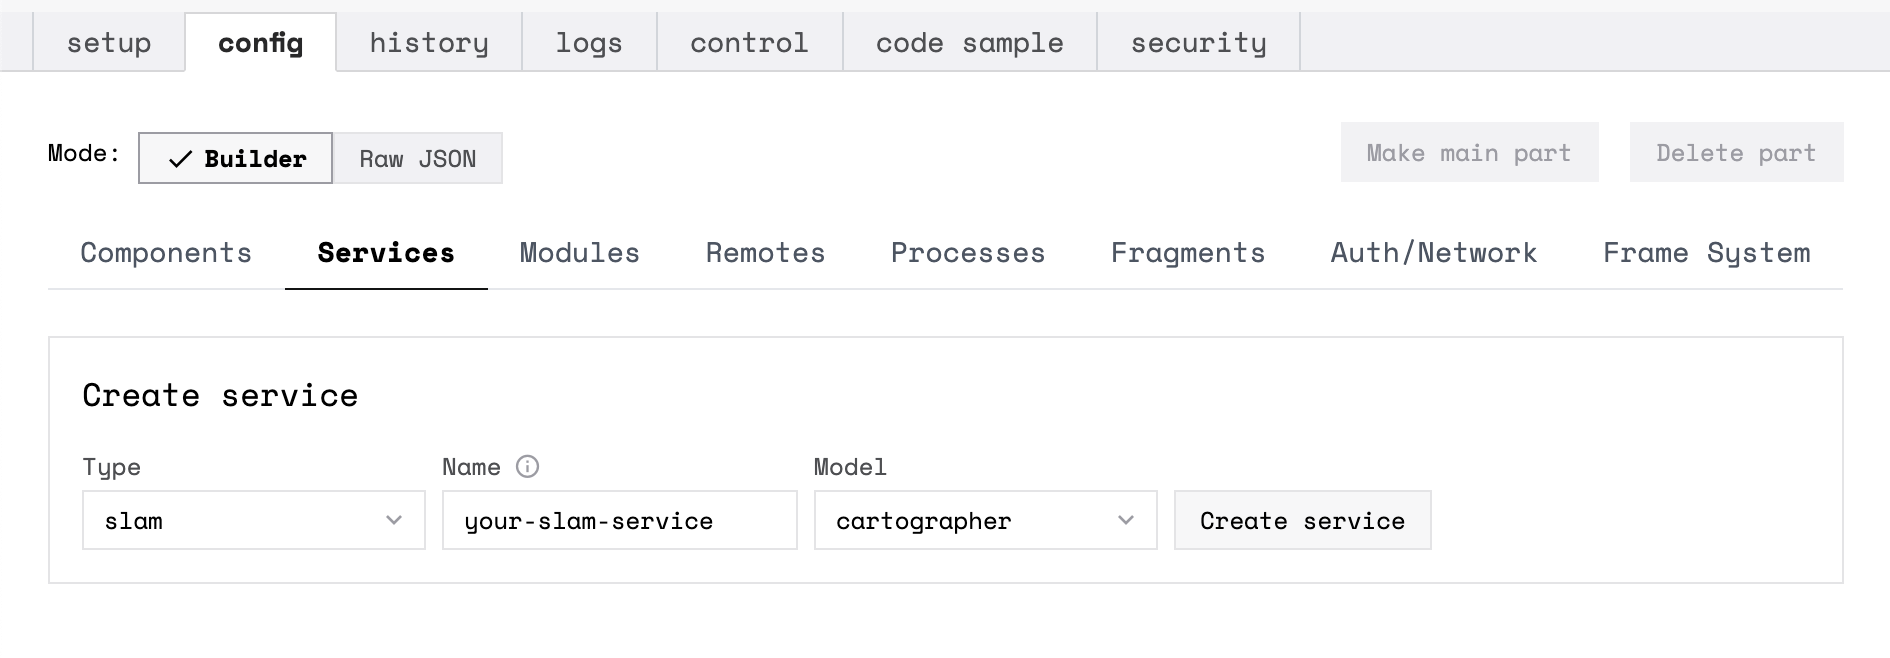
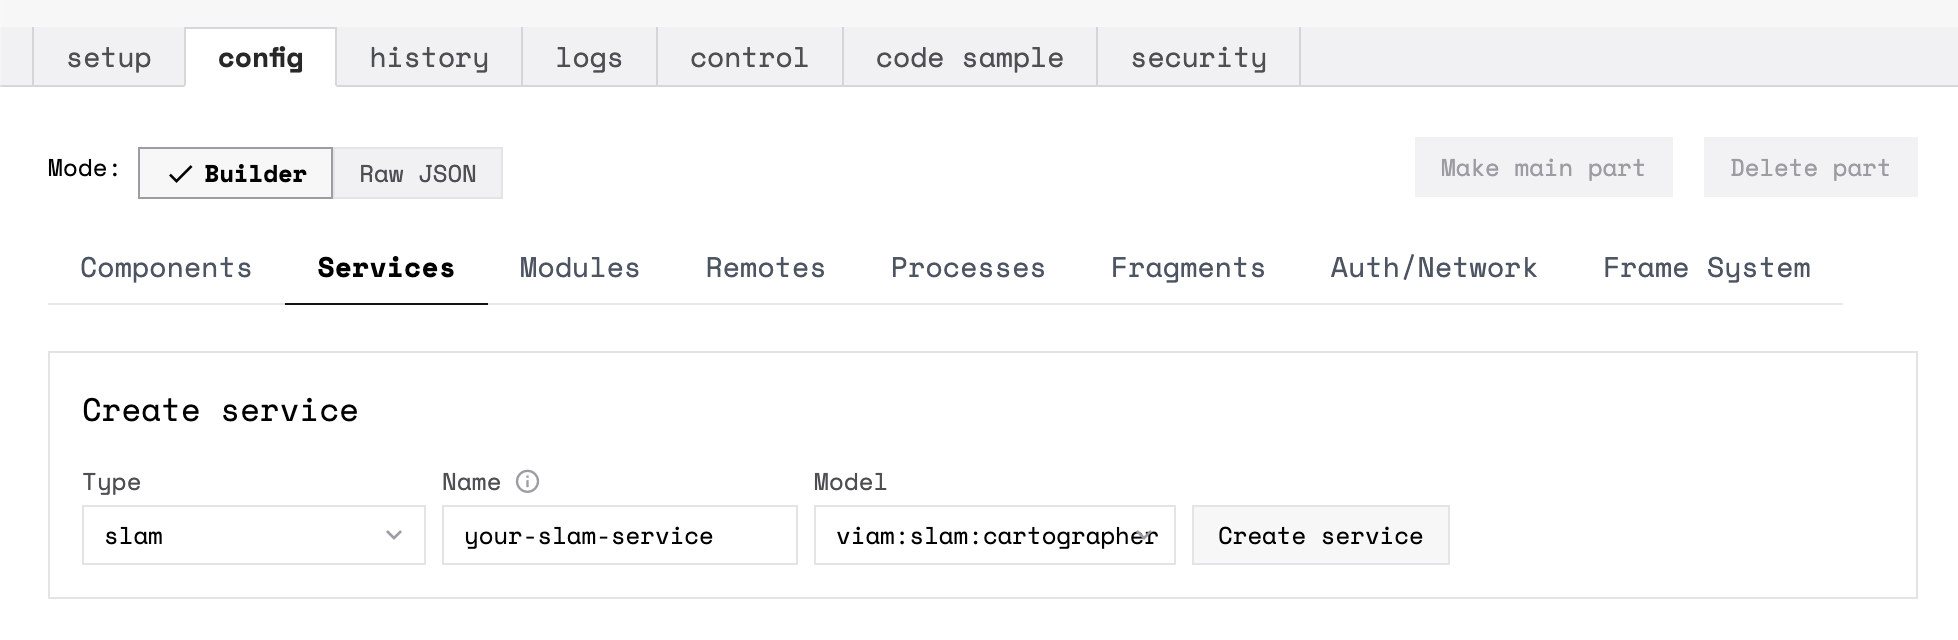
RSDK-2030 - Update to use cartographer-module (#1087)

diff --git a/docs/services/slam/cartographer/_index.md b/docs/services/slam/cartographer/_index.md
@@ -18,23 +18,23 @@ Install the binary required to utilize the `cartographer` library on your machin
 {{% tab name="Linux aarch64" %}}
 
 ```sh {id="terminal-prompt" class="command-line" data-prompt="$"}
-sudo curl -o /usr/local/bin/carto_grpc_server http://packages.viam.com/apps/slam-servers/carto_grpc_server-stable-aarch64.AppImage
-sudo chmod a+rx /usr/local/bin/carto_grpc_server
+sudo curl -o /usr/local/bin/cartographer-module http://packages.viam.com/apps/slam-servers/cartographer-module-stable-aarch64.AppImage
+sudo chmod a+rx /usr/local/bin/cartographer-module
 ```
 
 {{% /tab %}}
 {{% tab name="Linux x86_64" %}}
 
 ```sh {id="terminal-prompt" class="command-line" data-prompt="$"}
-sudo curl -o /usr/local/bin/carto_grpc_server http://packages.viam.com/apps/slam-servers/carto_grpc_server-stable-x86_64.AppImage
-sudo chmod a+rx /usr/local/bin/carto_grpc_server
+sudo curl -o /usr/local/bin/cartographer-module http://packages.viam.com/apps/slam-servers/cartographer-module-stable-x86_64.AppImage
+sudo chmod a+rx /usr/local/bin/cartographer-module
 ```
 
 {{% /tab %}}
 {{% tab name="MacOS" %}}
 
 ```sh {id="terminal-prompt" class="command-line" data-prompt="$"}
-brew tap viamrobotics/brews && brew install carto-grpc-server
+brew tap viamrobotics/brews && brew install cartographer-module
 ```
 
 {{% /tab %}}
@@ -67,11 +67,14 @@ Before adding a SLAM service, you must follow [these instructions](/program/exte
 Go to your robot's page on the [Viam app](https://app.viam.com/).
 Navigate to the **config** tab on your robot's page, and click on the **Services** subtab.
 
-Add a service with type `slam`, model `cartographer`, and a name of your choice:
+Add a service with type `slam`, model `viam:slam:cartographer`, and a name of your choice:
 
 ![adding cartographer slam service](../img/run_slam/add-cartographer-service-ui.png)
 
 Paste the following into the **Attributes** field of your new service:
+
+{{< tabs name="Add Cartographer Service Live Configs">}}
+{{% tab name="Linux" %}}
 
 ```json
 {
@@ -86,18 +89,82 @@ Paste the following into the **Attributes** field of your new service:
 ```
 
 {{% /tab %}}
+
+{{% tab name="MacOS" %}}
+
+```json
+{
+  "data_dir": "/Users/<YOUR_USERNAME>/<CARTOGRAPHER_DIR>",
+  "delete_processed_data": true,
+  "use_live_data": true,
+  "sensors": ["rplidar"],
+  "config_params": {
+    "mode": "2d"
+  }
+}
+```
+
+{{% /tab %}}
+{{< /tabs >}}
+
+Select the **Raw JSON** mode and copy/paste the following `"modules"` JSON to your existing SLAM and RPLIDAR configuration:
+
+{{< tabs name="Add Cartographer Service Live Module">}}
+{{% tab name="Linux/MacOS x86_64" %}}
+
+```json
+"modules": [
+  // { ...}, YOUR RPLIDAR MODULE,
+  {
+    "executable_path": "/usr/local/bin/cartographer-module",
+    "name": "cartographer-module"
+  }
+],
+// "components": [ ...], YOUR RPLIDAR MODULAR COMPONENT,
+// "services": [ ...], YOUR SLAM SERVICE
+```
+
+{{% /tab %}}
+
+{{% tab name="MacOS ARM64 (M1 & M2)" %}}
+
+```json
+"modules": [
+  // { ...}, YOUR RPLIDAR MODULE,
+  {
+    "executable_path": "/opt/homebrew/bin/cartographer-module",
+    "name": "cartographer-module"
+  }
+],
+// "components": [ ...], YOUR RPLIDAR MODULAR COMPONENT,
+// "services": [ ...], YOUR SLAM SERVICE
+```
+
+{{% /tab %}}
+{{< /tabs >}}
+
+{{% /tab %}}
 {{% tab name="JSON Template" %}}
 
 Go to your robot's page on the [Viam app](https://app.viam.com/).
 Navigate to the **config** tab.
-Select the **Raw JSON** mode, then copy/paste the following `"services"` JSON to add to your existing RPLIDAR configuration:
+Select the **Raw JSON** mode, then copy/paste the following `"services"` and `"modules"` JSON to add to your existing RPLIDAR configuration:
+
+{{< tabs name="Add the Cartographer Service Live Config JSON OSs">}}
+{{% tab name="Linux" %}}
 
 ```json
-// "modules": [ ...], YOUR RPLIDAR MODULE, 
+"modules": [
+  // { ...}, YOUR RPLIDAR MODULE,
+  {
+    "executable_path": "/usr/local/bin/cartographer-module",
+    "name": "cartographer-module"
+  }
+],
 // "components": [ ...], YOUR RPLIDAR MODULAR COMPONENT,
 "services": [
   {
-    "model": "cartographer",
+    "model": "viam:slam:cartographer",
     "name": <"your-service-name">,
     "type": "slam",
     "attributes": {
@@ -113,6 +180,68 @@ Select the **Raw JSON** mode, then copy/paste the following `"services"` JSON to
 ]
 ```
 
+{{% /tab %}}
+{{% tab name="MacOS x86_64" %}}
+
+```json
+"modules": [
+  // { ...}, YOUR RPLIDAR MODULE,
+  {
+    "executable_path": "/usr/local/bin/cartographer-module",
+    "name": "cartographer-module"
+  }
+],
+// "components": [ ...], YOUR RPLIDAR MODULAR COMPONENT,
+"services": [
+  {
+    "model": "viam:slam:cartographer",
+    "name": <"your-service-name">,
+    "type": "slam",
+    "attributes": {
+      "data_dir": "/Users/<YOUR_USERNAME>/<CARTOGRAPHER_DIR>",
+      "delete_processed_data": true,
+      "use_live_data": true,
+      "sensors": ["rplidar"],
+      "config_params": {
+        "mode": "2d"
+      }
+    }
+  }
+]
+```
+
+{{% /tab %}}
+{{% tab name="MacOS ARM64 (M1 & M2)" %}}
+
+```json
+"modules": [
+  // { ...}, YOUR RPLIDAR MODULE,
+  {
+    "executable_path": "/opt/homebrew/bin/cartographer-module",
+    "name": "cartographer-module"
+  }
+],
+// "components": [ ...], YOUR RPLIDAR MODULAR COMPONENT,
+"services": [
+  {
+    "model": "viam:slam:cartographer",
+    "name": <"your-service-name">,
+    "type": "slam",
+    "attributes": {
+      "data_dir": "/Users/<YOUR_USERNAME>/<CARTOGRAPHER_DIR>",
+      "delete_processed_data": true,
+      "use_live_data": true,
+      "sensors": ["rplidar"],
+      "config_params": {
+        "mode": "2d"
+      }
+    }
+  }
+]
+```
+
+{{% /tab %}}
+{{< /tabs >}}
 {{% /tab %}}
 {{< /tabs >}}
 
@@ -173,27 +302,85 @@ If this directory structure is not present at runtime, the SLAM Service creates 
 ### Add a SLAM Service
 
 {{< tabs name="Add the Cartographer Service with Dataset">}}
+
 {{% tab name="Config Builder" %}}
 
 Go to your robot's page on the [Viam app](https://app.viam.com/).
 Navigate to the **config** tab on your robot's page, and click on the **Services** subtab.
 
-Add a service with type `slam`, model `cartographer`, and a name of your choice:
+Add a service with type `slam`, model `viam:slam:cartographer`, and a name of your choice:
 
 ![adding cartographer slam service](../img/run_slam/add-cartographer-service-ui.png)
 
 Paste the following into the **Attributes** field of your new service:
 
+{{< tabs name="Add the Cartographer Service with Dataset Configs">}}
+{{% tab name="Linux" %}}
+
 ```json
 {
-    "config_params": {
-        "mode": "2d"
-    },
     "data_dir": "/home/<YOUR_USERNAME>/<CARTOGRAPHER_DIR>",
     "delete_processed_data": false,
     "use_live_data": false
+    "config_params": {
+        "mode": "2d"
+    },
 }
 ```
+
+{{% /tab %}}
+
+{{% tab name="MacOS" %}}
+
+```json
+{
+    "data_dir": "/Users/<YOUR_USERNAME>/<CARTOGRAPHER_DIR>",
+    "delete_processed_data": false,
+    "use_live_data": false
+    "config_params": {
+        "mode": "2d"
+    },
+}
+```
+
+{{% /tab %}}
+{{< /tabs >}}
+
+Select the **Raw JSON** mode and copy/paste the following `"modules"` JSON to your existing SLAM configuration:
+
+{{< tabs name="Add Cartographer Service with Dataset Module">}}
+{{% tab name="Linux/MacOS x86_64" %}}
+
+```json
+"modules": [
+  // { ...}, YOUR RPLIDAR MODULE,
+  {
+    "executable_path": "/usr/local/bin/cartographer-module",
+    "name": "cartographer-module"
+  }
+],
+// "components": [ ...], YOUR RPLIDAR MODULAR COMPONENT,
+// "services": [ ...], YOUR SLAM SERVICE
+```
+
+{{% /tab %}}
+
+{{% tab name="MacOS ARM64 (M1 & M2)" %}}
+
+```json
+"modules": [
+  // { ...}, YOUR RPLIDAR MODULE,
+  {
+    "executable_path": "/opt/homebrew/bin/cartographer-module",
+    "name": "cartographer-module"
+  }
+],
+// "components": [ ...], YOUR RPLIDAR MODULAR COMPONENT,
+// "services": [ ...], YOUR SLAM SERVICE
+```
+
+{{% /tab %}}
+{{< /tabs >}}
 
 {{% /tab %}}
 {{% tab name="JSON Template" %}}
@@ -202,7 +389,16 @@ Go to your robot's page on the [Viam app](https://app.viam.com/).
 Navigate to the **config** tab.
 Select the **Raw JSON** mode, then copy/paste the following `"services"` JSON to add to your existing configuration:
 
+{{< tabs name="Add the Cartographer Service with Dataset JSON OSs">}}
+{{% tab name="Linux" %}}
+
 ``` json
+"modules": [
+  {
+    "executable_path": "/usr/local/bin/cartographer-module",
+    "name": "cartographer-module"
+  }
+],
 "services": [
 {
     "type": "slam",
@@ -221,6 +417,62 @@ Select the **Raw JSON** mode, then copy/paste the following `"services"` JSON to
 ```
 
 {{% /tab %}}
+{{% tab name="MacOS x86_64" %}}
+
+``` json
+"modules": [
+  {
+    "executable_path": "/usr/local/bin/cartographer-module",
+    "name": "cartographer-module"
+  }
+],
+"services": [
+{
+    "type": "slam",
+    "name": <"your-service-name">,
+    "model": "cartographer",
+    "attributes": {
+    "config_params": {
+        "mode": "2d"
+    },
+    "data_dir": "/Users/<YOUR_USERNAME>/<CARTOGRAPHER_DIR>",
+    "delete_processed_data": false,
+    "use_live_data": false,
+    }
+}
+]
+```
+
+{{% /tab %}}
+{{% tab name="MacOS ARM64 (M1 & M2)" %}}
+
+``` json
+"modules": [
+  {
+    "executable_path": "/opt/homebrew/bin/cartographer-module",
+    "name": "cartographer-module"
+  }
+],
+"services": [
+{
+    "type": "slam",
+    "name": <"your-service-name">,
+    "model": "cartographer",
+    "attributes": {
+    "config_params": {
+        "mode": "2d"
+    },
+    "data_dir": "/Users/<YOUR_USERNAME>/<CARTOGRAPHER_DIR>",
+    "delete_processed_data": false,
+    "use_live_data": false,
+    }
+}
+]
+```
+
+{{% /tab %}}
+{{% /tab %}}
+{{< /tabs >}}
 {{< /tabs >}}
 
 ### Adjust `data_dir`

diff --git a/docs/services/slam/_index.md b/docs/services/slam/_index.md
@@ -30,4 +30,4 @@ Integrated SLAM Libraries include:
 
 | Model | Description |
 | ----- | ----------- |
-| [`cartographer`](cartographer) | [The Cartographer Project](https://github.com/cartographer-project) performs dense SLAM using LIDAR data. |
+| [`viam:slam:cartographer`](cartographer) | [The Cartographer Project](https://github.com/cartographer-project) performs dense SLAM using LIDAR data. |
